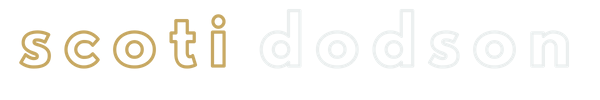
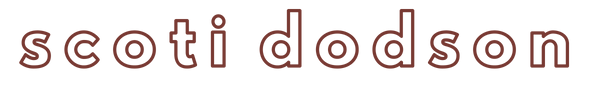
added ability to toggle to light theme, adjusted styling for light theme

Changed region(s): [[0.42, 0.09, 0.96, 0.69], [0.03, 0.15, 0.39, 0.69]]

diff --git a/src/index.js b/src/index.js
@@ -1,5 +1,13 @@
 document.addEventListener('DOMContentLoaded', () => {
   const navigation = document.querySelector('.navigation')
+  const sheetLink = document.querySelector('#stylesheet')
+  const themeToggle = document.querySelector('.theme-toggle')
+  const github = document.querySelector('.github')
+  const linkedin = document.querySelector('.linkedin')
+  const twitter = document.querySelector('.twitter')
+  const medium = document.querySelector('.medium')
+  const email = document.querySelector('.email')
+  const toggle = document.querySelector('.toggle')
   const logo = document.querySelector('.sd-logo')
   const home = document.querySelector('.home')
   const about = document.querySelector('.about')
@@ -8,35 +16,34 @@ document.addEventListener('DOMContentLoaded', () => {
   const scoti = document.querySelector('.sd-photo')
   const ruby = document.querySelector('.ruby')
   const zelda = document.querySelector('.zelda')
-  navigation.style.marginTop="12%"
 
   // ------------------------- LISTENERS ------------------------------------
 
     navigation.addEventListener('click', (event) => {
       switch (event.target.dataset.id) {
         case 'home':
-          navDown()
+          // navigation.style.marginTop="12%"
           home.hidden = false
           about.hidden = true
           projects.hidden = true
           blog.hidden = true
           break;
         case 'about':
-          navUp()
+          // navigation.style.marginTop="0%"
           home.hidden = true
           about.hidden = false
           projects.hidden = true
           blog.hidden = true
           break;
         case 'projects':
-          navUp()
+          // navigation.style.marginTop="0%"
           home.hidden = true
           about.hidden = true
           projects.hidden = false
           blog.hidden = true
           break;
         case 'blog':
-          navUp()
+          // navigation.style.marginTop="0%"
           home.hidden = true
           about.hidden = true
           projects.hidden = true
@@ -52,8 +59,36 @@ document.addEventListener('DOMContentLoaded', () => {
 
     logo.addEventListener('mouseover', (event) => {
       console.log('over logo');
-      const altLogo = Math.floor(Math.random() * 7)
+      let onDark = document.querySelector('#stylesheet').href.includes('main.css')
+      let altLogo
+      if (onDark) {
+        altLogo = Math.floor(Math.random() * 7)
+      } else {
+        altLogo = Math.floor(Math.random() * 4)
+      }
       logo.src=`./images/sd${altLogo}.png`
+    })
+
+    themeToggle.addEventListener('click', (event) => {
+      let onDark = document.querySelector('#stylesheet').href.includes('main.css')
+      if (onDark) {
+        toggle.innerText = "DARK THEME"
+        logo.src=`./images/sd0.png`
+        github.src="./images/icons/github_red.png"
+        linkedin.src="./images/icons/linkedin_red.png"
+        twitter.src="./images/icons/twitter_red.png"
+        medium.src="./images/icons/medium_red.png"
+        email.src="./images/icons/email_red.png"
+        sheetLink.href='light.css'
+      } else {
+        toggle.innerText = "LIGHT THEME"
+        github.src="./images/icons/github_gray.png"
+        linkedin.src="./images/icons/linkedin_gray.png"
+        twitter.src="./images/icons/twitter_gray.png"
+        medium.src="./images/icons/medium_gray.png"
+        email.src="./images/icons/email_gray.png"
+        sheetLink.href='main.css'
+      }
     })
 
     // ruby.addEventListener('mouseover', (event) => {

diff --git a/light.css b/light.css
@@ -1,12 +1,12 @@
 /* @media screen and (min-width: 801px) { */
   html {
-  color: #eaefef;
+  color: #394d63;
   font-family: helvetica neue;
   font-kerning: 5px;
   }
 
   body {
-    background-color: #10202f;
+    background-color: #fff;
     text-align: center;
     width: 100vw;
 
@@ -22,7 +22,7 @@
     letter-spacing: 2px;
     position: sticky;
     top: 0px;
-    background-color: #10202f;
+    background-color: #fff;
     padding-top: 8%;
     padding-bottom: 2%;
   }
@@ -34,6 +34,13 @@
   .nav-link {
     margin: 1%;
     cursor: crosshair;
+    /* background-color: #394d63; */
+    background-color: #10202f;
+    color: #fff;
+    padding-top: 5px;
+    padding-bottom: 5px;
+    padding-left: 8px;
+    padding-right: 8px;
   }
 
   .social-icons {
@@ -84,8 +91,8 @@
   }
 
   .toggle {
-    color: #eaefef;
-    background-color: #773832;
+    color: #fff;
+    background-color: #10202f;
     text-transform: uppercase;
     font-family: helvetica neue;
     letter-spacing: 2px;
@@ -108,21 +115,25 @@
     flex-direction: row;
     justify-content: center;
     align-items: center;
+    padding-left: 5%;
+    padding-right: 5%;
   }
 
   .scoti img {
     max-width: 300px;
     border-radius: 50%;
-    border-style: solid;
-    border-color: #eaefef;
-    border-width: 5px;
   }
 
   .about-me {
     max-width: 600px;
     padding-left: 2%;
     text-align: left;
-    color: #c6a661;
+    color: #10202f;
+    /* color: #c6a661; */
+    border-left-color: #773832;
+    border-left-style: solid;
+    border-left-width: 6px;
+    margin-left: 3%;
   }
 
   .about-me p {
@@ -147,20 +158,20 @@
     text-transform: none;
     color: #c6a661;
   }
-
+/*
   .navy-on-gold:hover {
     color: #10202f;
+    color: #fff;
     background-color: #c6a661;
+    background-color: #10202f;
     padding-top: 1%;
     padding-bottom: 1%;
     padding-left: 2%;
     padding-right: 1%;
     display: inline-block;
-  }
+  } */
 
   .navy-on-gold:hover a {
-    text-decoration: underline;
-    color: #10202f;
     cursor: crosshair;
   }
 
@@ -180,7 +191,7 @@
     margin-bottom: 2%;
     margin-top: 1%;
     color: #c6a661;
-    font-size: 1em;
+    font-size: 1.1em;
     line-height: 22px;
     letter-spacing: 1px;
     font-weight: 400;
@@ -201,7 +212,7 @@
   .navy-on-gold-blog {
     display: inline-block;
     max-width: 70%;
-    color: #eaefef;
+    color: #10202f;
     padding-bottom: 1%;
     padding-left: 12%;
     margin-left: 2%;
@@ -209,11 +220,11 @@
   }
 
   .navy-on-gold-blog:hover {
-    background-color: #eaefef;
+    /* background-color: #eaefef; */
     color: #10202f;
     text-align: left;
     padding-top: 0;
-    font-size: 1.6em;
+    font-size: 1.4em;
     max-width: 90%;
     padding-left: 5%;
     margin-left: 5%;

diff --git a/index.html b/index.html
@@ -6,8 +6,8 @@
     <!-- <link rel="stylesheet" href="https://fonts.googleapis.com/css?family=Warnes"> -->
       <!-- <link href="https://fonts.googleapis.com/css?family=Bungee+Inline" rel="stylesheet">
       <link href="https://fonts.googleapis.com/css?family=Glegoo" rel="stylesheet"> -->
-    <link rel="stylesheet" type="text/css" media="screen" href="main.css" />
-    <link rel="stylesheet" type="text/css" media="screen" href="mobile.css" />
+    <link id="stylesheet" rel="stylesheet" type="text/css" media="screen" href="main.css" />
+    <!-- <link rel="stylesheet" type="text/css" media="screen" href="mobile.css" /> -->
 
     <link rel="apple-touch-icon" sizes="180x180" href="./apple-touch-icon.png">
     <link rel="icon" type="image/png" sizes="32x32" href="./favicon-32x32.png">
@@ -33,21 +33,26 @@
       </div>
       <div class="social-icons">
         <a href="https://github.com/scotidodson" target="_blank" class="social-link">
-          <img src="./images/icons/github_gray.png" alt="github" class="social">
+          <img src="./images/icons/github_gray.png" alt="github" class="social github">
         </a>
         <a href="https://www.linkedin.com/in/scotidodson/" target="_blank" class="social-link">
-          <img src="./images/icons/linkedin_gray.png" alt="linkedin" class="social">
+          <img src="./images/icons/linkedin_gray.png" alt="linkedin" class="social linkedin">
         </a>
         <a href="https://twitter.com/scoti_" target="_blank" class="social-link">
-          <img src="./images/icons/twitter_gray.png" alt="twitter" class="social">
+          <img src="./images/icons/twitter_gray.png" alt="twitter" class="social twitter">
         </a>
         <a href="https://medium.com/@scotidodson" target="_blank" class="social-link">
-          <img src="./images/icons/medium_gray.png" alt="medium" class="social">
+          <img src="./images/icons/medium_gray.png" alt="medium" class="social medium">
         </a>
         <a href="mailto:scotidodson@gmail.com" class="social-link">
-          <img src="./images/icons/email_gray.png" alt="email" class="social">
+          <img src="./images/icons/email_gray.png" alt="email" class="social email">
         </a>
       </div>
+
+      <div class="theme-toggle">
+        <p><span class="toggle">LIGHT THEME</span></p>
+      </div>
+
     </div>
 
     <div class="about" hidden>
@@ -161,6 +166,5 @@
 
       </div>
     </div>
-
   </body>
 </html>
